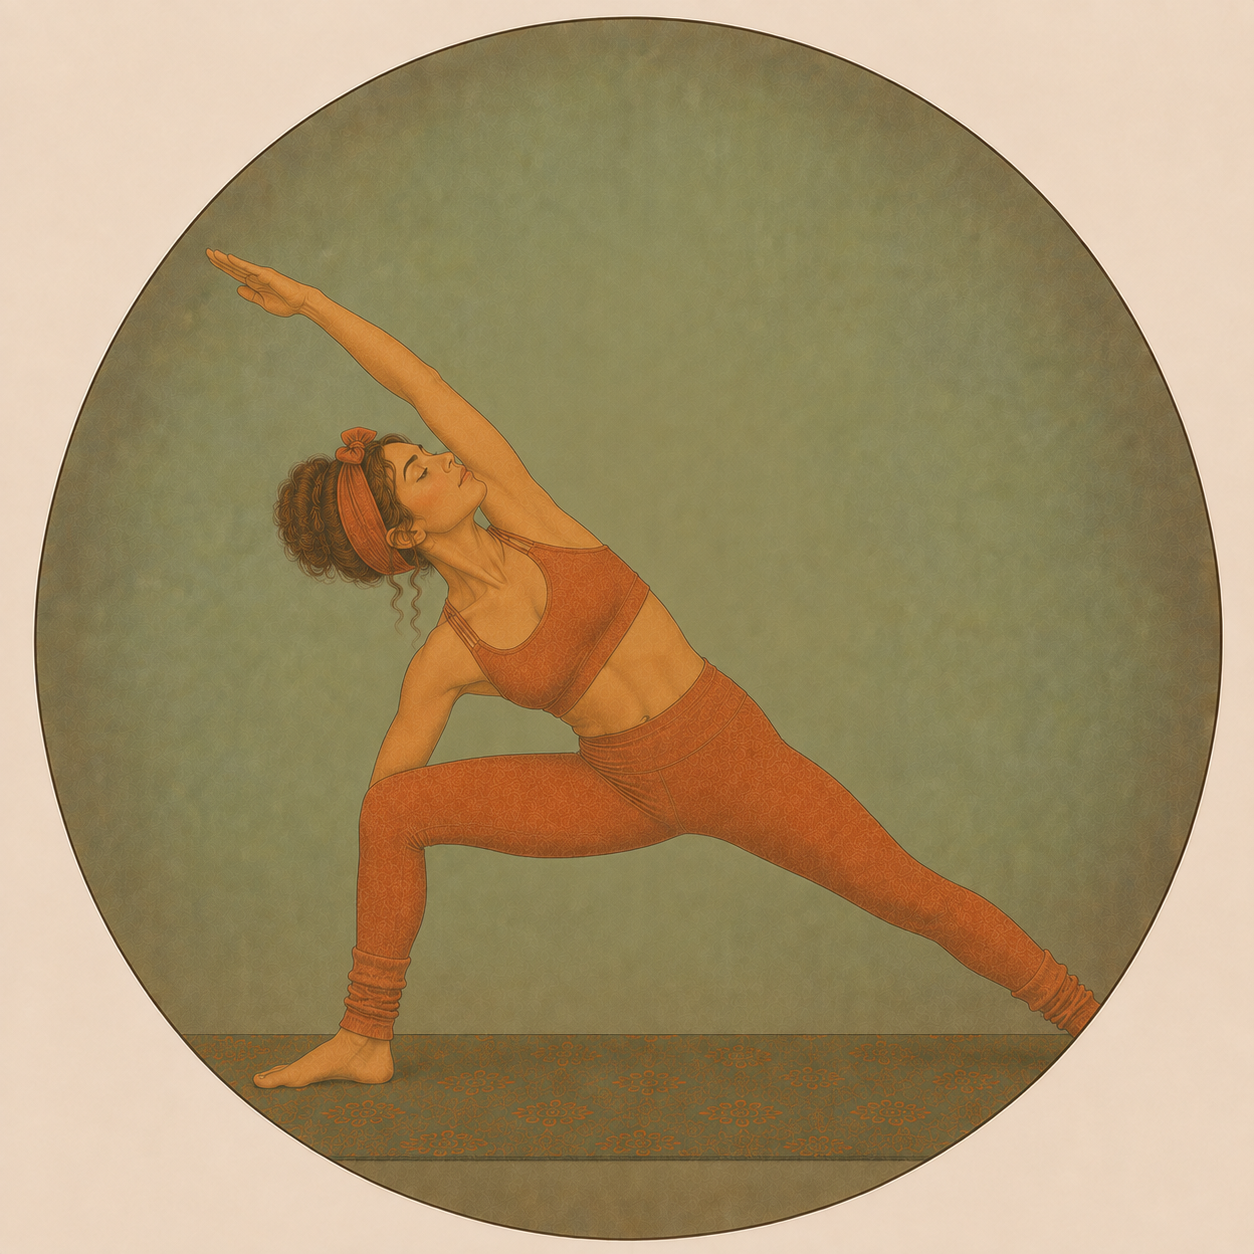
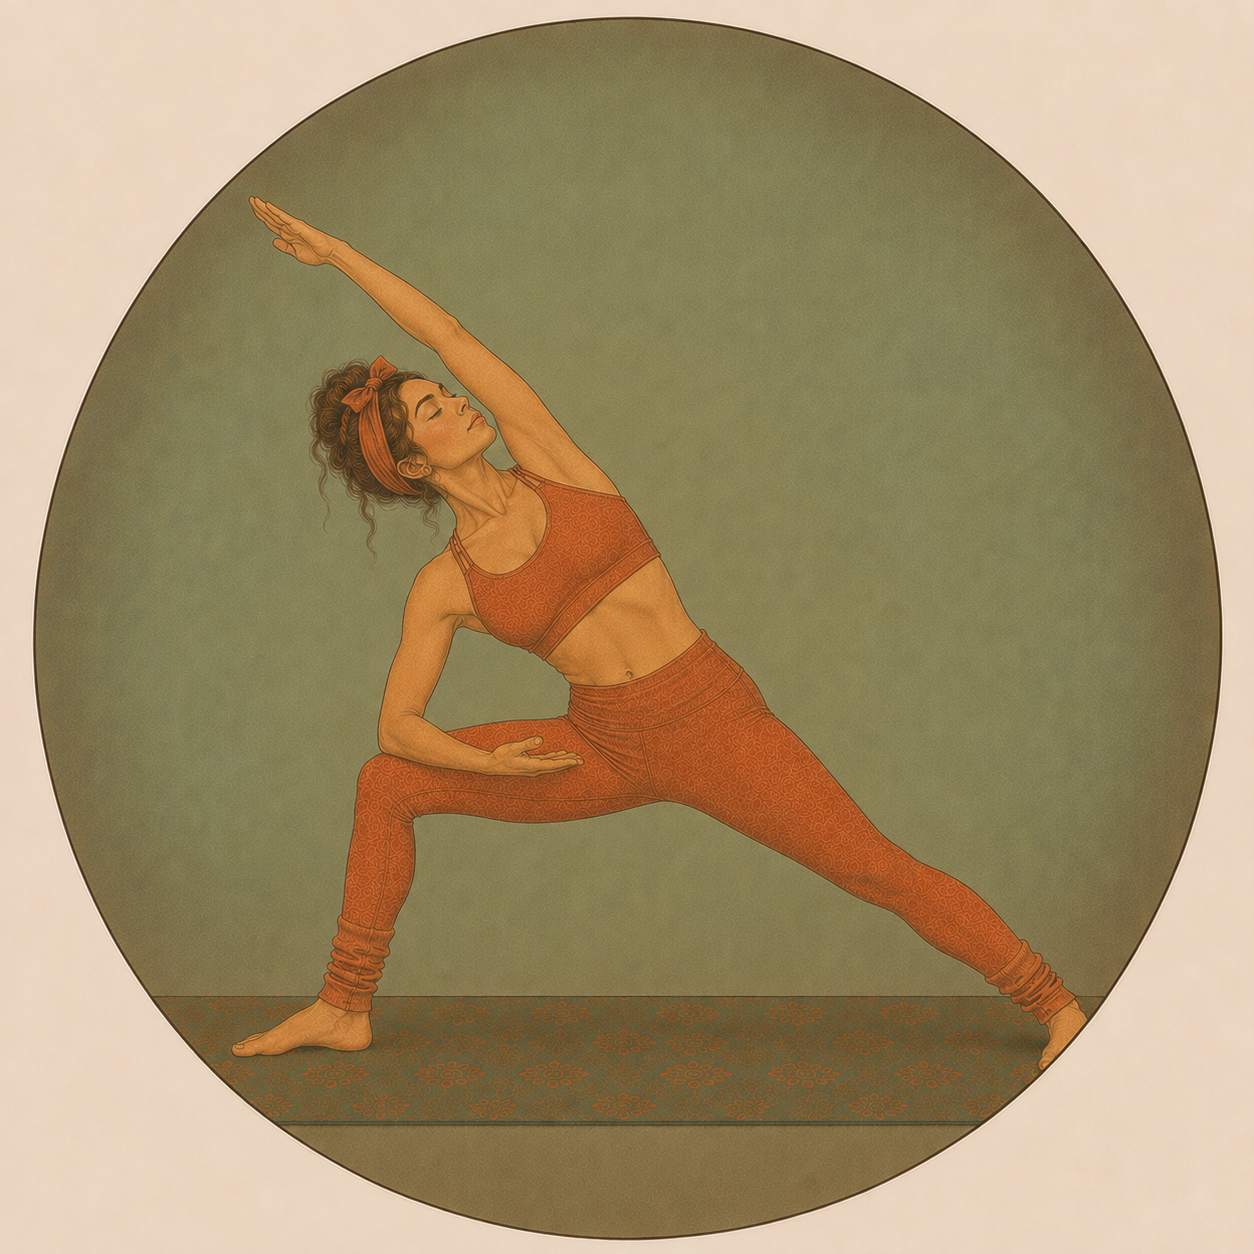
Update: assets/exercises/Reverse Warrior (Viparita Virabhadrasana).png,"assets/exercises/Wyd\305\202u\305\274ony k\304\205t boczny (Utthita Parsvakonasana).png",src/data/exercisePool.ts

diff --git a/src/data/exercisePool.ts b/src/data/exercisePool.ts
@@ -83,4 +83,9 @@ export const EXERCISE_POOL: Exercise[] = [
     duration: 40,
     imageUri: require('../../assets/exercises/Wydłużony kąt boczny (Utthita Parsvakonasana).png'),
   },
+  {
+    name: 'Odwrócony wojownik (Viparita Virabhadrasana)',
+    duration: 35,
+    imageUri: require('../../assets/exercises/Reverse Warrior (Viparita Virabhadrasana).png'),
+  },
 ];
